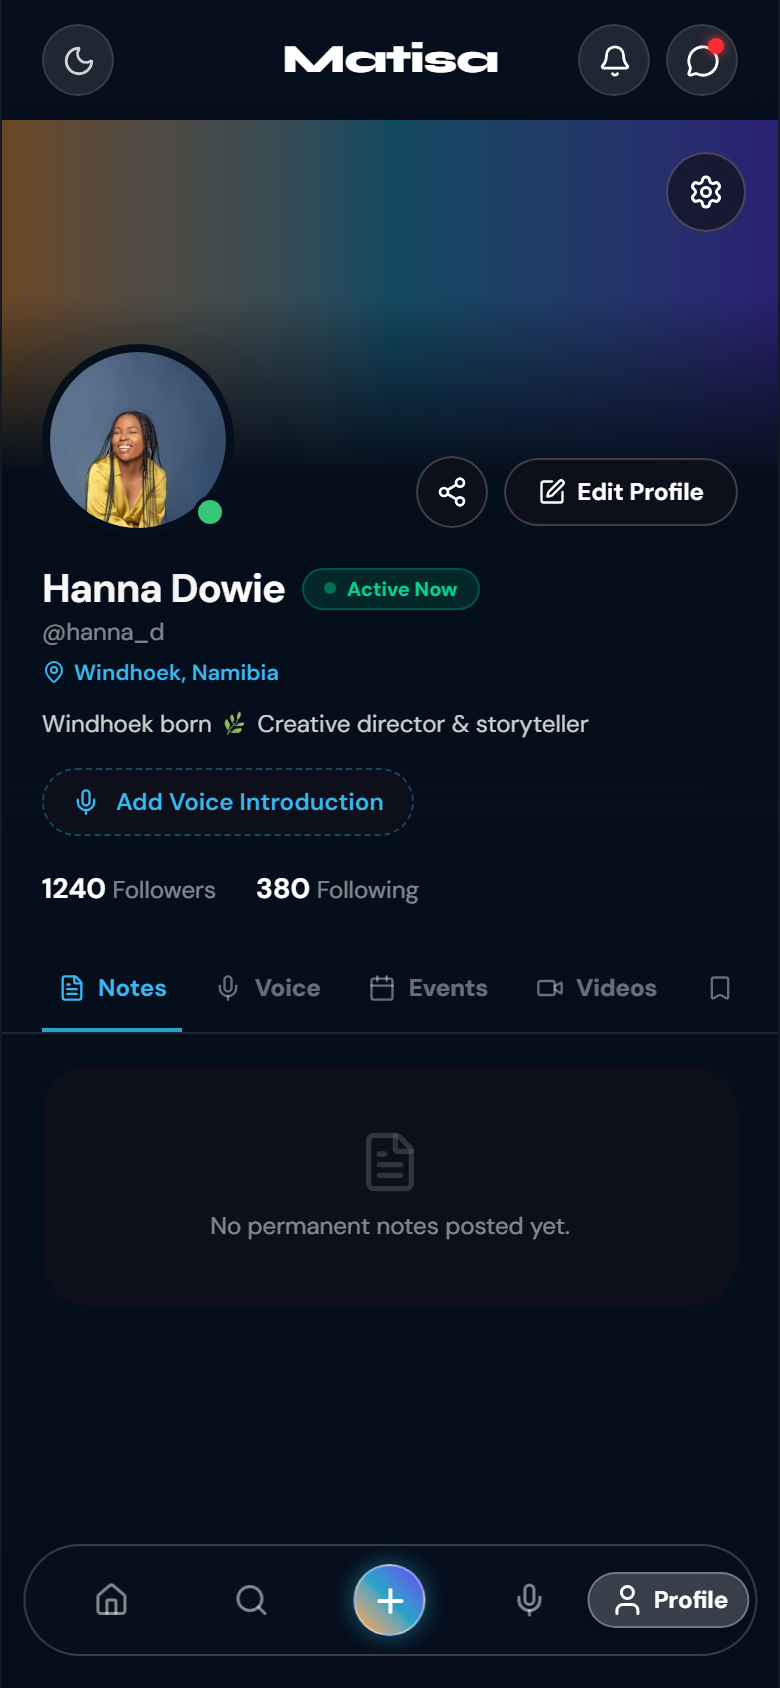
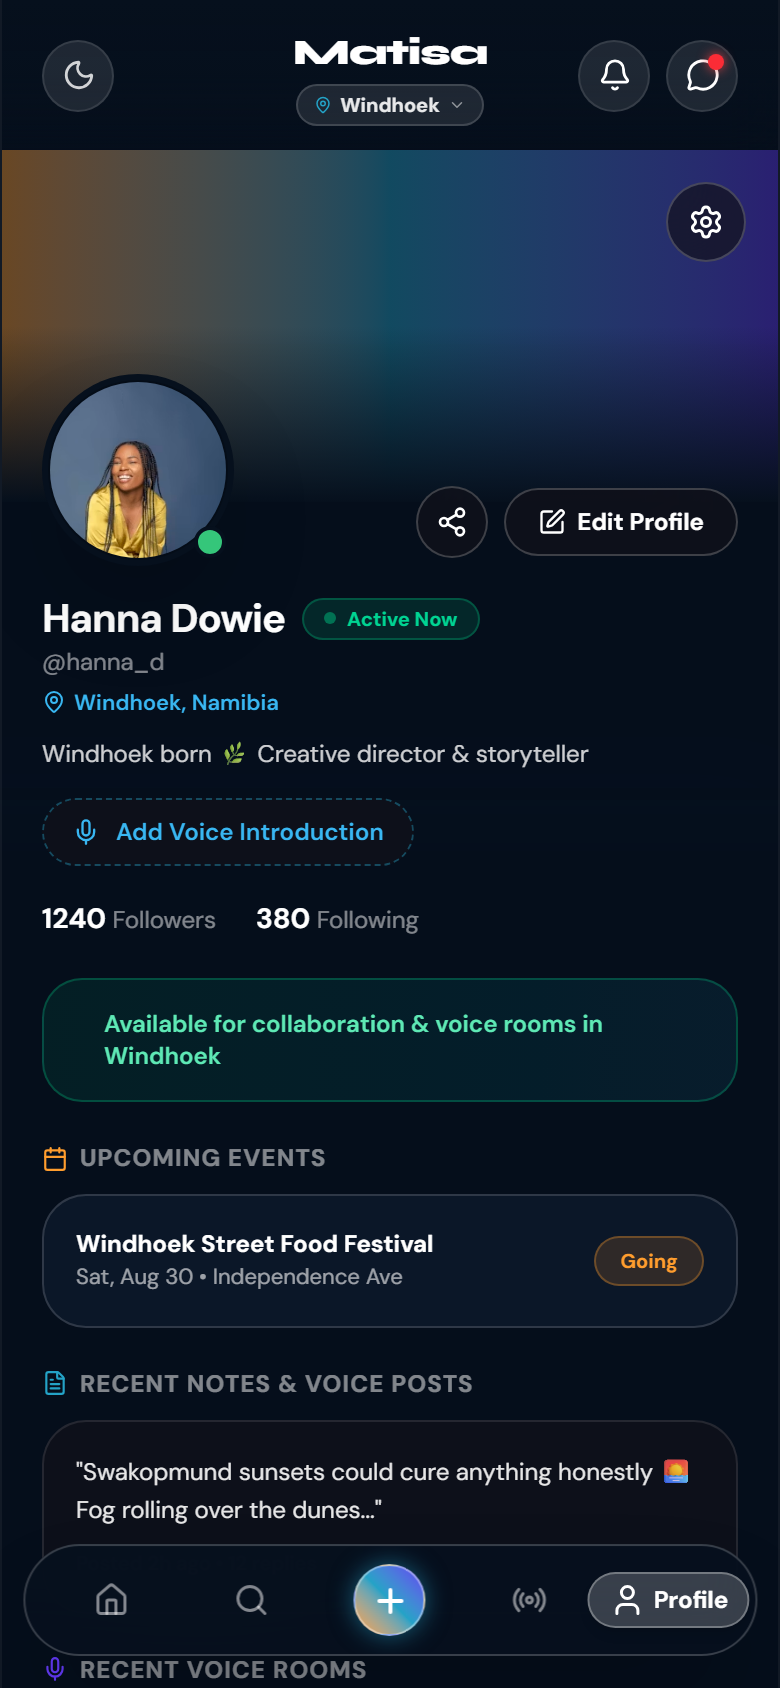
feat(ui): complete Matisa Strangers to Neighbors transformation with location pill, seeded content, and single-scroll profile

diff --git a/src/pages/Profile.tsx b/src/pages/Profile.tsx
@@ -248,75 +248,76 @@ export function Profile() {
         </div>
       </div>
 
-      {/* 3. Reelio 5 Profile Category Tabs */}
-      <div className="px-5 mt-5 border-b border-white/10">
-        <div className="flex items-center justify-between overflow-x-auto no-scrollbar gap-2">
-          {tabs.map(({ id, label, icon: Icon }) => {
-            const isActive = activeTab === id;
-            return (
-              <button
-                key={id}
-                onClick={() => setActiveTab(id as any)}
-                className={`flex items-center gap-1.5 py-3 px-2 border-b-2 text-xs font-bold whitespace-nowrap transition ${
-                  isActive
-                    ? "border-[#24A3C7] text-[#39B7F2]"
-                    : "border-transparent text-white/40 hover:text-white/70"
-                }`}
-              >
-                <Icon size={14} />
-                <span>{label}</span>
-              </button>
-            );
-          })}
+      {/* 3. Single Continuous Scroll Activity Stream */}
+      <div className="px-5 mt-5 space-y-5 flex-1">
+        {/* Availability Status Badge */}
+        <div className="flex items-center gap-2 p-3.5 rounded-[20px] bg-gradient-to-r from-emerald-500/10 to-[#24A3C7]/10 border border-emerald-500/30">
+          <span className="h-2 w-2 rounded-full bg-emerald-400 animate-ping shrink-0" />
+          <span className="text-xs font-semibold text-emerald-300">
+            Available for collaboration & voice rooms in Windhoek
+          </span>
         </div>
-      </div>
 
-      {/* 4. Tab Content Feed Area */}
-      <div className="px-5 mt-4 flex-1">
-        {activeTab === "notes" && (
-          <div className="space-y-3">
-            {userNotes.length > 0 ? (
-              userNotes.map((note) => (
-                <div key={note.id} className="glass-panel p-4 rounded-[22px] text-xs text-white">
-                  {note.content}
-                </div>
-              ))
-            ) : (
-              <div className="glass-panel p-8 text-center rounded-[24px] text-white/50 text-xs">
-                <FileText size={32} className="mx-auto mb-2 opacity-30" />
-                No permanent notes posted yet.
+        {/* Upcoming Events Section */}
+        <div className="space-y-2.5">
+          <div className="flex items-center justify-between">
+            <h3 className="text-xs font-bold text-white/50 uppercase tracking-wider flex items-center gap-1.5">
+              <Calendar size={13} className="text-[#FF9D2E]" /> Upcoming Events
+            </h3>
+          </div>
+          <div className="p-4 rounded-[22px] glass-panel-elevated border border-[#FF9D2E]/30 flex items-center justify-between">
+            <div>
+              <h4 className="text-xs font-bold text-white">Windhoek Street Food Festival</h4>
+              <p className="text-[11px] text-white/60">Sat, Aug 30 • Independence Ave</p>
+            </div>
+            <span className="px-3 py-1 rounded-full bg-[#FF9D2E]/15 text-[#FF9D2E] text-[10px] font-bold border border-[#FF9D2E]/30">
+              Going
+            </span>
+          </div>
+        </div>
+
+        {/* Recent Notes Stream */}
+        <div className="space-y-2.5">
+          <h3 className="text-xs font-bold text-white/50 uppercase tracking-wider flex items-center gap-1.5">
+            <FileText size={13} className="text-[#24A3C7]" /> Recent Notes & Voice Posts
+          </h3>
+          {userNotes.length > 0 ? (
+            userNotes.map((note) => (
+              <div
+                key={note.id}
+                className="glass-panel p-4 rounded-[22px] text-xs text-white leading-relaxed"
+              >
+                {note.content}
               </div>
-            )}
-          </div>
-        )}
+            ))
+          ) : (
+            <div className="glass-panel p-4 rounded-[22px] text-xs text-white/90 leading-relaxed border border-white/10">
+              "Swakopmund sunsets could cure anything honestly 🌅 Fog rolling over the dunes..."
+              <div className="mt-2 text-[10px] text-white/50 font-semibold">
+                Posted 2h ago • 12 replies
+              </div>
+            </div>
+          )}
+        </div>
 
-        {activeTab === "voice" && (
-          <div className="glass-panel p-8 text-center rounded-[24px] text-white/50 text-xs">
-            <Mic size={32} className="mx-auto mb-2 opacity-30" />
-            No voice notes or voicemails published yet.
+        {/* Recent Rooms Hosted */}
+        <div className="space-y-2.5">
+          <h3 className="text-xs font-bold text-white/50 uppercase tracking-wider flex items-center gap-1.5">
+            <Mic size={13} className="text-[#6139F2]" /> Recent Voice Rooms
+          </h3>
+          <div className="p-4 rounded-[22px] glass-panel border border-[#6139F2]/30 flex items-center justify-between">
+            <div>
+              <h4 className="text-xs font-bold text-white">Afro-pop & Acoustic Jam Session</h4>
+              <p className="text-[11px] text-white/60">89 listeners • Hosted 2 days ago</p>
+            </div>
+            <button
+              onClick={() => navigate("/rooms")}
+              className="px-3 py-1 rounded-full bg-[#6139F2]/20 text-[#24A3C7] text-[10px] font-bold border border-[#6139F2]/40"
+            >
+              Replay
+            </button>
           </div>
-        )}
-
-        {activeTab === "events" && (
-          <div className="glass-panel p-8 text-center rounded-[24px] text-white/50 text-xs">
-            <Calendar size={32} className="mx-auto mb-2 opacity-30" />
-            No upcoming hosted events.
-          </div>
-        )}
-
-        {activeTab === "videos" && (
-          <div className="glass-panel p-8 text-center rounded-[24px] text-white/50 text-xs">
-            <Video size={32} className="mx-auto mb-2 opacity-30" />
-            No video broadcasts recorded.
-          </div>
-        )}
-
-        {activeTab === "saved" && isOwnProfile && (
-          <div className="glass-panel p-8 text-center rounded-[24px] text-white/50 text-xs">
-            <Bookmark size={32} className="mx-auto mb-2 opacity-30" />
-            Your saved notes and events collection is empty.
-          </div>
-        )}
+        </div>
       </div>
     </div>
   );

diff --git a/src/components/layout/TopNavigation.tsx b/src/components/layout/TopNavigation.tsx
@@ -1,6 +1,7 @@
-import { Bell, MessageCircle, Sun, Moon } from "lucide-react";
+import { Bell, MessageCircle, Sun, Moon, MapPin, ChevronDown } from "lucide-react";
 import { useNavigate } from "react-router-dom";
 import { useTheme } from "@/contexts/ThemeContext";
+import { toast } from "sonner";
 
 export function TopNavigation() {
   const navigate = useNavigate();
@@ -29,15 +30,23 @@ export function TopNavigation() {
         </button>
       </div>
 
-      {/* 2. Absolute Centered Brand Title */}
-      <div className="flex items-center justify-center">
+      {/* 2. Absolute Centered Brand Title & Location Selector Pill */}
+      <div className="flex flex-col items-center justify-center gap-0.5">
         <button
           onClick={() => navigate("/")}
-          className="flex items-center gap-2 hover:opacity-90 transition active:scale-95"
+          className="flex items-center gap-1 hover:opacity-90 transition active:scale-95"
         >
-          <span className="text-xl font-extrabold tracking-tight text-white font-display">
+          <span className="text-lg font-extrabold tracking-tight text-white font-display">
             Matisa
           </span>
+        </button>
+        <button
+          onClick={() => toast.info("Browsing Windhoek, Namibia • Tap to change city")}
+          className="flex items-center gap-1 px-2 py-0.5 rounded-full bg-white/10 text-white/90 hover:text-white text-[10px] font-bold border border-white/15 transition active:scale-95"
+        >
+          <MapPin size={9} className="text-[#24A3C7]" />
+          <span>Windhoek</span>
+          <ChevronDown size={9} className="text-white/50" />
         </button>
       </div>
 

diff --git a/src/pages/Notes.tsx b/src/pages/Notes.tsx
@@ -139,15 +139,6 @@ export function Notes() {
         )}
       </div>
 
-      {/* Frame-Constrained Floating FAB */}
-      <button
-        onClick={() => setIsCreateSheetOpen(true)}
-        className="fixed bottom-[88px] right-5 sm:right-[calc(50%-200px)] w-14 h-14 bg-gradient-to-br from-[#FF416C] to-[#8E2DE2] rounded-full flex items-center justify-center text-white shadow-xl hover:scale-105 active:scale-95 transition-transform z-40"
-        aria-label="Create new note"
-      >
-        <Plus size={24} />
-      </button>
-
       {isVoiceModalOpen && (
         <VoiceNoteRecorderModal
           open={isVoiceModalOpen}

diff --git a/src/components/layout/BottomNavigation.tsx b/src/components/layout/BottomNavigation.tsx
@@ -1,4 +1,4 @@
-import { Home, Search, Plus, Mic, User } from "lucide-react";
+import { Home, Search, Plus, Radio, User } from "lucide-react";
 import { useLocation, Link } from "react-router-dom";
 
 interface BottomNavigationProps {
@@ -86,7 +86,7 @@ export function BottomNavigation({ onOpenCreate, compact = false }: BottomNaviga
               : "text-white/50"
           }`}
         >
-          <Mic size={18} />
+          <Radio size={18} />
           {isRoomsActive && !compact && <span className="text-xs font-bold">Rooms</span>}
         </div>
       </Link>
